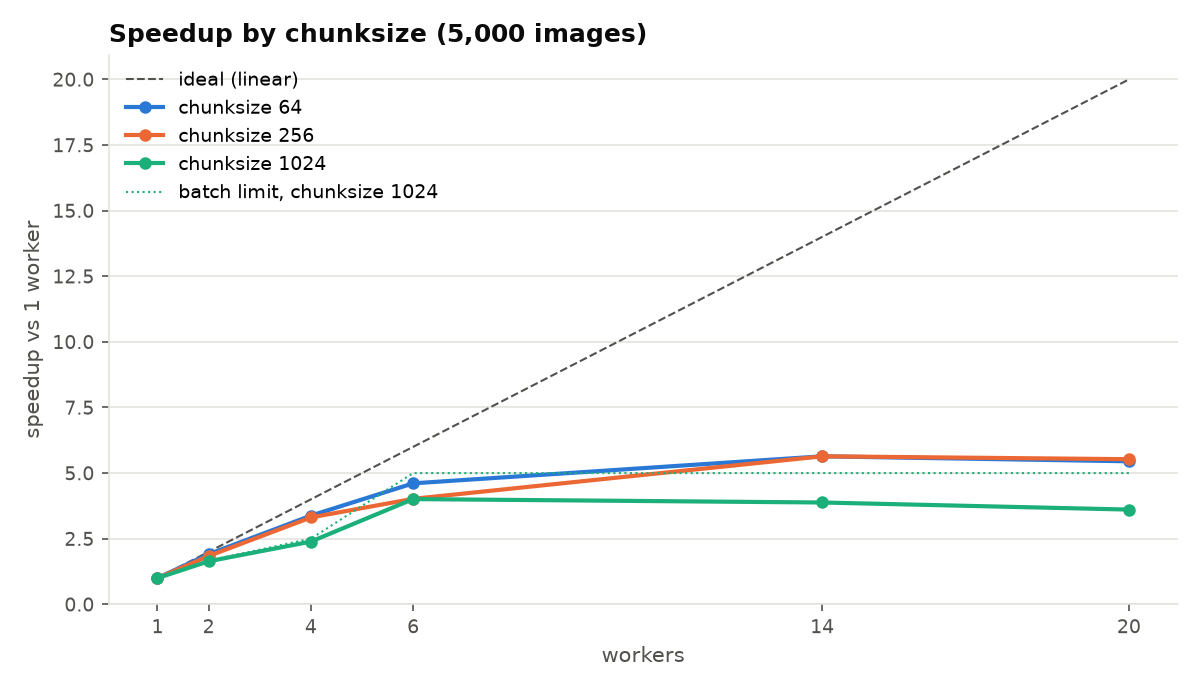
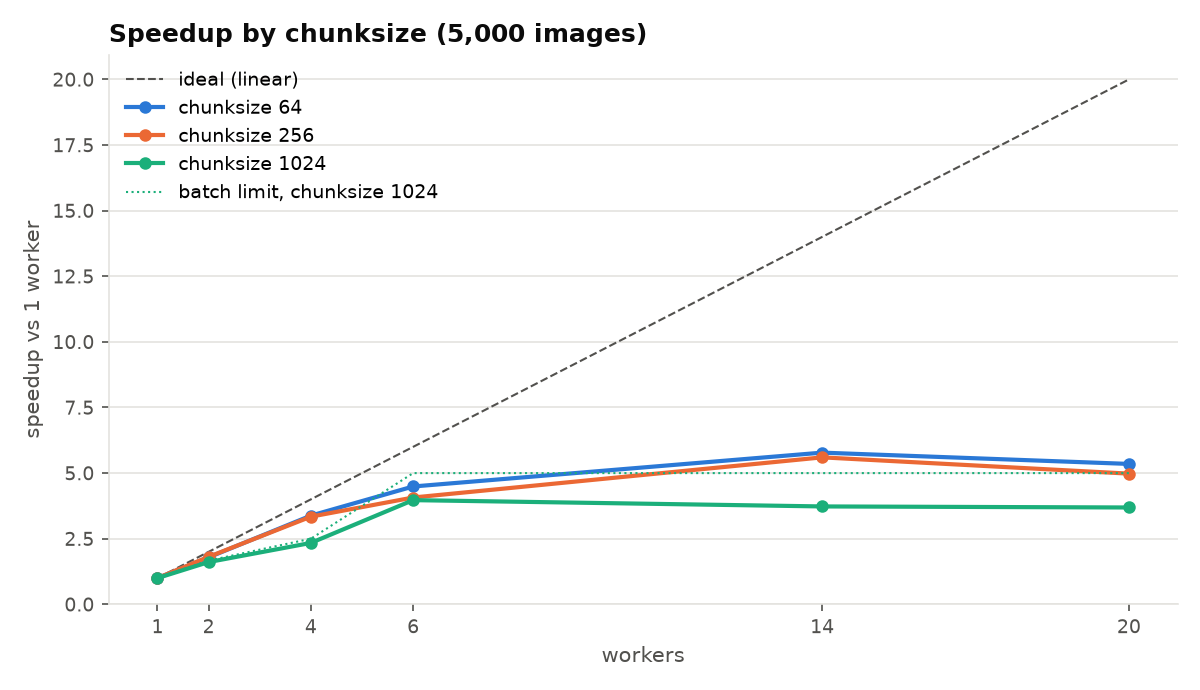
Use smaller malloc thresholds for benchmarks

Changed region(s): [[0.1542, 0.6391, 0.9558, 0.8217], [0.8633, 0.7304, 0.9558, 0.7609]]

diff --git a/README.md b/README.md
@@ -85,12 +85,12 @@ Worker count, 20,000 images, chunk size 64:
 
 | Workers | Images/s | Speedup | Efficiency |
 |---|---|---|---|
-| 1 | 694 | 1.00 | 1.00 |
-| 2 | 1,381 | 1.99 | 0.99 |
-| 4 | 2,647 | 3.81 | 0.95 |
-| 6 | 3,677 | 5.29 | 0.88 |
-| 14 | 5,176 | 7.45 | 0.53 |
-| 20 | 5,279 | 7.60 | 0.38 |
+| 1 | 691 | 1.00 | 1.00 |
+| 2 | 1,307 | 1.89 | 0.95 |
+| 4 | 2,616 | 3.79 | 0.95 |
+| 6 | 3,737 | 5.41 | 0.90 |
+| 14 | 5,160 | 7.47 | 0.53 |
+| 20 | 5,276 | 7.63 | 0.38 |
 
 Speedup is relative to the 1-worker run. Efficiency is speedup divided by the number of workers, so it counts every worker as a full performance core: beyond 6 workers, additional workers run on efficiency cores or share a performance core with another worker, so on this CPU efficiency also falls for hardware reasons, not only because of overhead.
 
@@ -98,9 +98,9 @@ Chunk size (files sent to a worker at a time), 5,000 images, images/s:
 
 | Workers | 64 | 256 | 1024 |
 |---|---|---|---|
-| 2 | 1,300 | 1,254 | 1,118 |
-| 6 | 3,145 | 2,745 | 2,733 |
-| 20 | 3,717 | 3,775 | 2,463 |
+| 2 | 1,238 | 1,252 | 1,109 |
+| 6 | 3,097 | 2,811 | 2,738 |
+| 20 | 3,693 | 3,434 | 2,545 |
 
 With chunk size 1024, 5,000 images make only 5 batches, so at most 5 workers have work at a time. The 5,000-image runs at chunk size 64 in the two result files agree within 2%.
 
@@ -171,15 +171,16 @@ Timing scripts live in [`benchmarks/`](benchmarks/) and write their results to `
 | `benchmarks/plot_chunksize.py` | Speedup per worker count, one line per chunk size, with the limit set by the number of batches (largest sample only) | `reports/benchmark_chunksize_plot.png` (needs `benchmark_chunksize.csv`) |
 
 ```bash
-export MALLOC_MMAP_THRESHOLD_=67108864 MALLOC_TRIM_THRESHOLD_=134217728  # fixed malloc thresholds, see below
-uv run python benchmarks/bench_workers.py --sample 1000 5000 20000 --workers 2 4 6 14 20              # → benchmark_workers.csv
+MALLOC="MALLOC_MMAP_THRESHOLD_=16777216 MALLOC_TRIM_THRESHOLD_=8388608"  # fixed malloc thresholds, see below
+env $MALLOC uv run python benchmarks/bench_workers.py --sample 1000 5000 20000 --workers 2 4 6 14 20              # → benchmark_workers.csv
 uv run python benchmarks/plot_workers.py
-uv run python benchmarks/bench_workers.py --sample 5000 --workers 2 4 6 14 20 --chunksize 64 256 1024  # → benchmark_chunksize.csv
+env $MALLOC uv run python benchmarks/bench_workers.py --sample 5000 --workers 2 4 6 14 20 --chunksize 64 256 1024  # → benchmark_chunksize.csv
 uv run python benchmarks/plot_chunksize.py
-unset MALLOC_MMAP_THRESHOLD_ MALLOC_TRIM_THRESHOLD_
 ```
 
-**Memory allocator.** Decoding an image allocates a few large buffers. By default, glibc `malloc` adjusts its size thresholds to earlier allocations in the same process, so a process either reuses these buffers from one image to the next, or returns them to the operating system and maps fresh memory (page faults) for every image, which is slower. Which of the two a process gets depends on unrelated earlier work, such as drawing the random sample (tested in [`experiments/`](experiments/README.md#serial-throughput-and-the-memory-allocator)), and each worker process starts with its own state, so the 1-worker run and the workers can end up in different states. The two variables fix the thresholds (67.1 MB and 134.2 MB, well above one image's buffers), so every process reuses its buffers. glibc reads them when a process starts, so they are set in the shell, and worker processes inherit them; other C libraries (macOS, musl) ignore them. `src/check_integrity.py` itself runs with the default allocator, so its throughput can be lower than these benchmark numbers.
+`env $MALLOC` sets the variables for that one command only, so nothing stays set in the shell afterwards (check with `env | grep MALLOC`).
+
+**Memory allocator.** Decoding an image allocates a few large buffers. By default, glibc `malloc` adjusts its size thresholds to earlier allocations in the same process, so a process either reuses these buffers from one image to the next, or returns them to the operating system and maps fresh memory (page faults) for every image, which is slower. Which of the two a process gets depends on unrelated earlier work, such as drawing the random sample (tested in [`experiments/`](experiments/README.md#serial-throughput-and-the-memory-allocator)), and each worker process starts with its own state, so the 1-worker run and the workers can end up in different states. The two variables fix the thresholds, so every process reuses its buffers: mmap at 16.8 MB (above one decoded image of 0.8 MB, and within the 33.6 MB maximum documented for glibc) and trim at 8.4 MB (above the about 2.2 MB each image frees, while limiting the unused memory a process may keep). Both are needed; see the [threshold experiment](experiments/README.md#which-malloc-setting-removes-the-page-faults). The values are sized for Food-101's 512 px images: images with much larger decoded buffers need them measured again. glibc reads them when a process starts, so they are set on the command line, and worker processes inherit them; other C libraries (macOS, musl) ignore them. `src/check_integrity.py` itself runs with the default allocator, so its throughput can be lower than these benchmark numbers.
 
 ---
 

diff --git a/experiments/README.md b/experiments/README.md
@@ -88,11 +88,11 @@ Memory returned to the kernel has to be mapped again, page by page, the next tim
 | 16.8 MB | default | 501 | 593 | mmap alone: worse than default |
 | default | 134.2 MB | 654 | 123 | Trim alone: most faults removed, not all |
 | 16.8 MB | 134.2 MB | 676 | 0 | Both: no faults |
-| 67.1 MB | 134.2 MB | 709 | 0 | Both, with the mmap value of the [benchmark commands](../README.md#benchmarks) |
+| 67.1 MB | 134.2 MB | 709 | 0 | Both, mmap above the documented maximum |
 | 16.8 MB | 1.0 MB | 503 | 593 | Trim below what one image frees |
 | 16.8 MB | 2.1 MB | 529 | 527 | Trim just below what one image frees |
 | 16.8 MB | 4.2 MB | 700 | 0 | Smallest tested trim value with no faults |
-| 16.8 MB | 8.4 MB | 675 | 0 | |
+| 16.8 MB | 8.4 MB | 675 | 0 | The values used in the [benchmark commands](../README.md#benchmarks) |
 
 - **Both thresholds are needed.** The rows with only one threshold set are tests, not usable settings: neither removes the faults on its own.
 - **The trim threshold must be larger than what one image frees** (about 2.2 MB): 2.1 MB still gives a fault count close to default; 4.2 MB and above give none. Larger values add no speed, but each process may keep up to that much unused memory instead of returning it.
